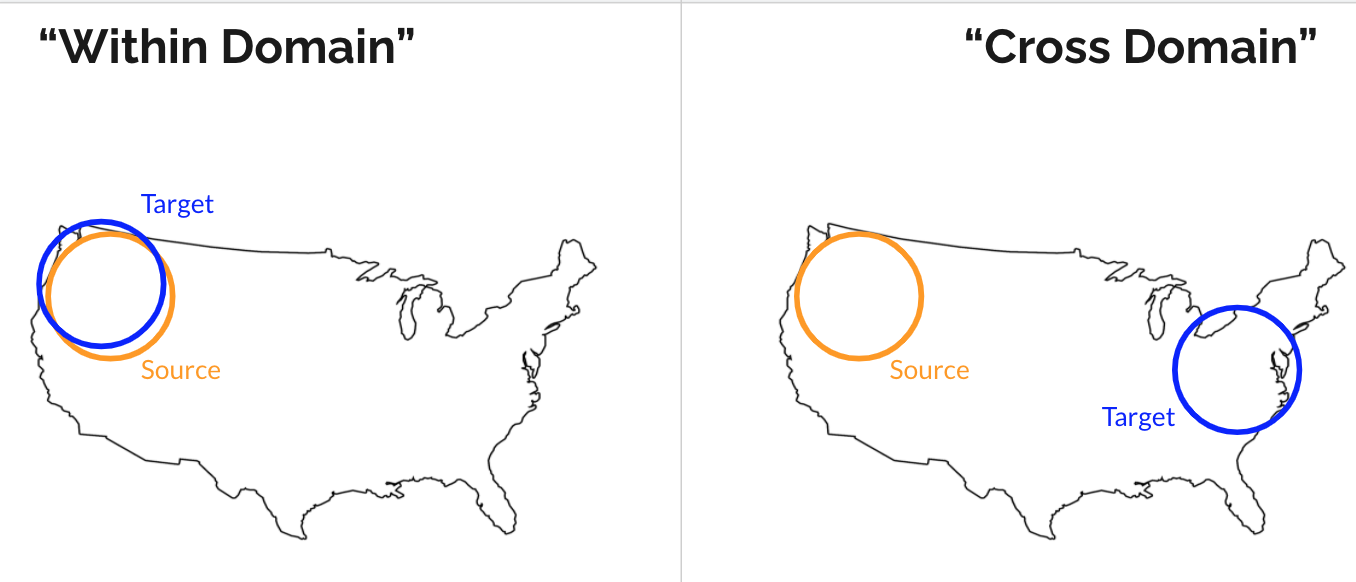
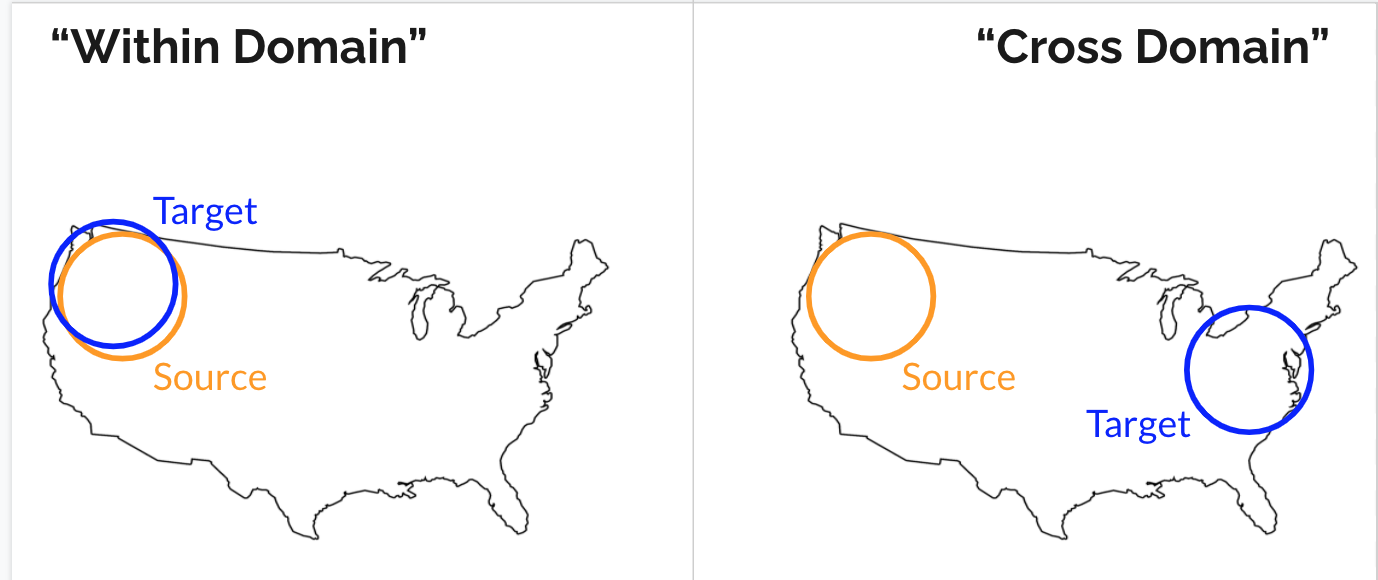
increase font size in overall domain map fig

diff --git a/index.html b/index.html
@@ -524,7 +524,7 @@
              </div>
            
             <div class="col-md-6 my-auto">
-              <img src="img/methodology/Overall Domain Map.png" class="img-responsive" class="center" alt="" style="width:100%">
+              <img src="img/methodology/Overall Domain Map.png" class="img-responsive" class="center" alt="" style="width:100%; height:150%">
               <br>
               <caption class="text-muted"><i>Figure: Overall Experiment Setup. In within-domain experiments, the target domain (Northwest) remains the same geographic region as the source domain (Northwest). In cross-domain experiments, the target domain (Northeast) has no labeled real data, so the model is trained on a different source domain (Northwest) and then applied to the target domain. Orange color denotes a source domain, whereas blue color denotes a target domain.</i></caption>
             </div>
